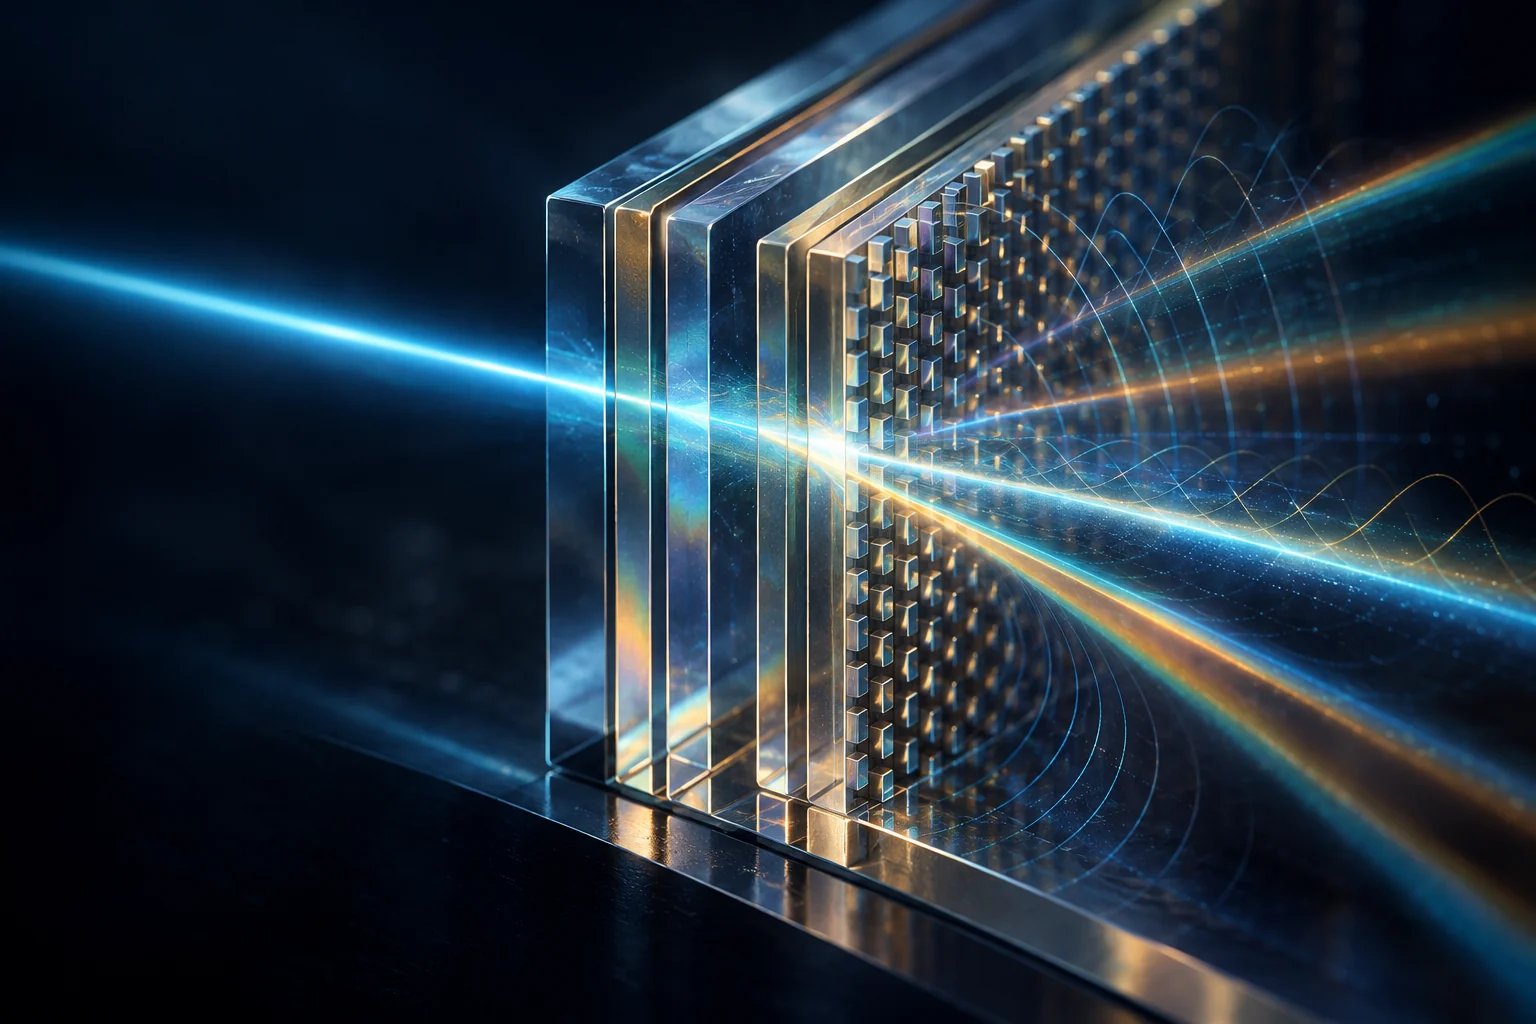
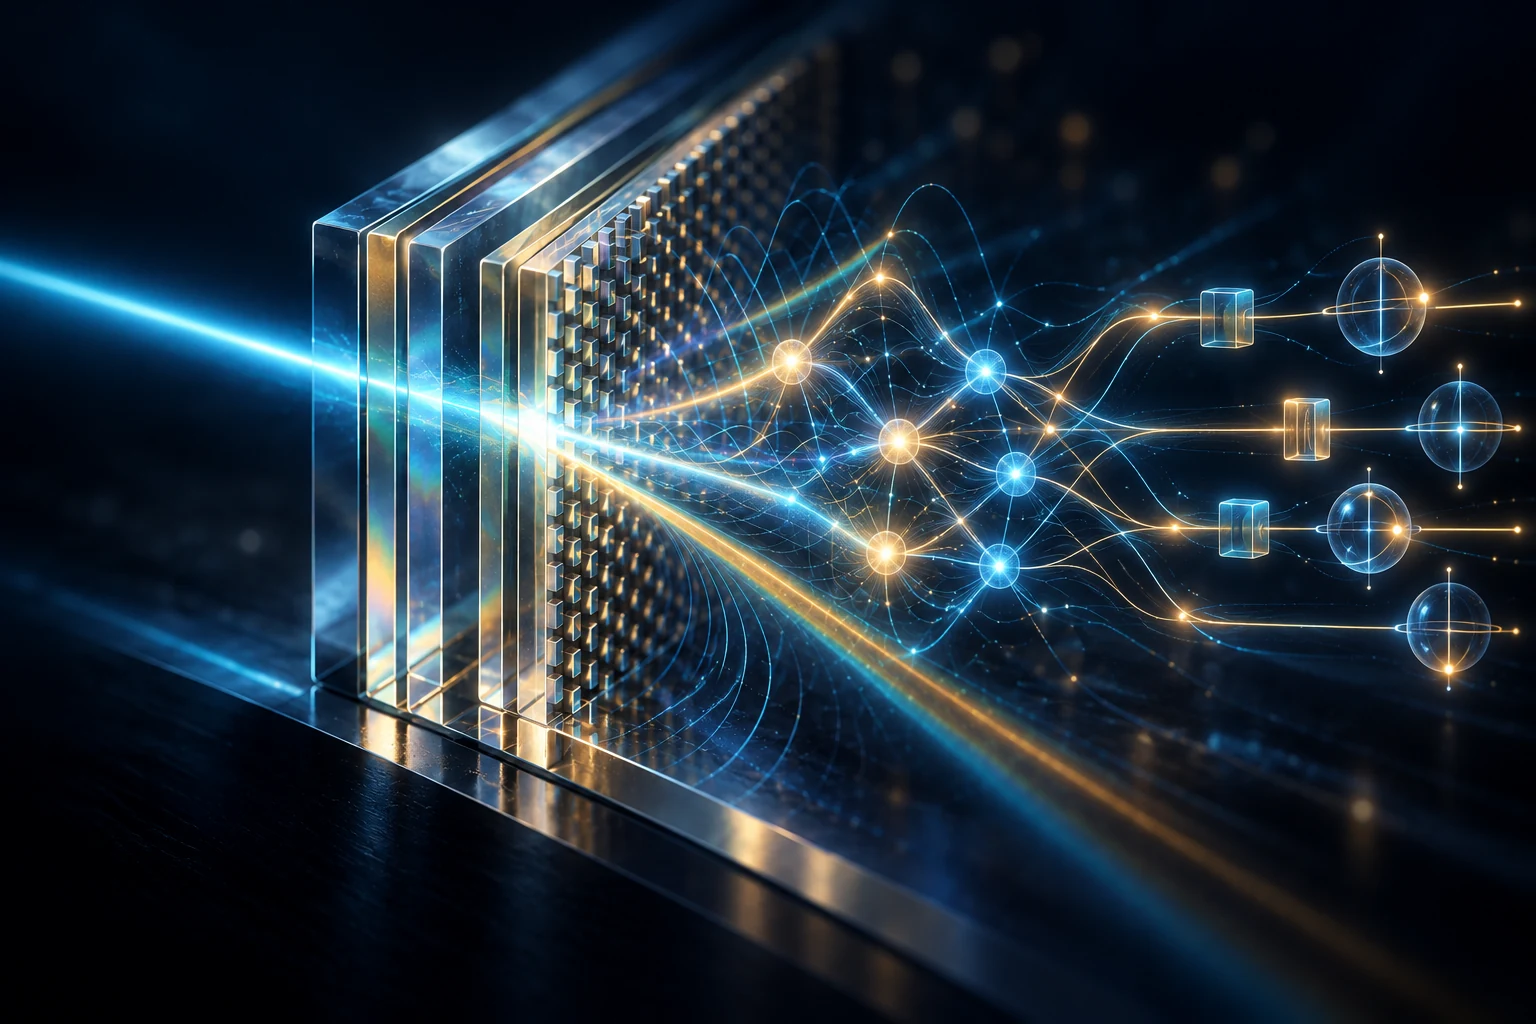
Version 2.1

diff --git a/index.html b/index.html
@@ -14,9 +14,9 @@ description: "Javani Research Lab studies nanophotonics, AI for scientific disco
       <div class="hero-actions"><a class="button button-primary" href="{{ '/research/' | relative_url }}">Explore our research</a><a class="button button-outline" href="{{ '/publications/' | relative_url }}">Selected publications</a></div>
     </div>
     <div class="hero-art">
-      <img src="{{ '/assets/hero-visual.webp' | relative_url }}" width="1536" height="1024" alt="Conceptual visualization of light interacting with layered optical structures" fetchpriority="high">
+      <img src="{{ '/assets/hero-visual.webp' | relative_url }}" width="1536" height="1024" alt="Conceptual artwork linking light interacting with a layered photonic material, neural network connections, and quantum circuit elements" fetchpriority="high">
       <span class="hero-coordinate" aria-hidden="true">LIGHT / LEARNING / QUANTUM</span>
-      <div class="art-caption"><strong>Across scales and disciplines</strong>Conceptual artwork of layered photonic structures</div>
+      <div class="art-caption"><strong>Across scales and disciplines</strong>Light, neural networks, and quantum computation</div>
     </div>
   </div>
 </section>

diff --git a/assets/site.css b/assets/site.css
@@ -20,6 +20,7 @@
 @media(prefers-reduced-motion:reduce){html{scroll-behavior:auto}.button,.research-card{transition:none}}
 
 /* Compact principal investigator portrait while preserving the profile layout. */
+.hero-art img{object-position:67% center}
 .person-lead{grid-template-columns:240px minmax(0,1fr);align-items:center;min-height:0;padding:1.5rem}
 .person-lead .person-portrait{width:208px;height:245px;min-height:0}
 .person-lead .person-copy{padding:1rem 1.4rem 1rem .5rem}
